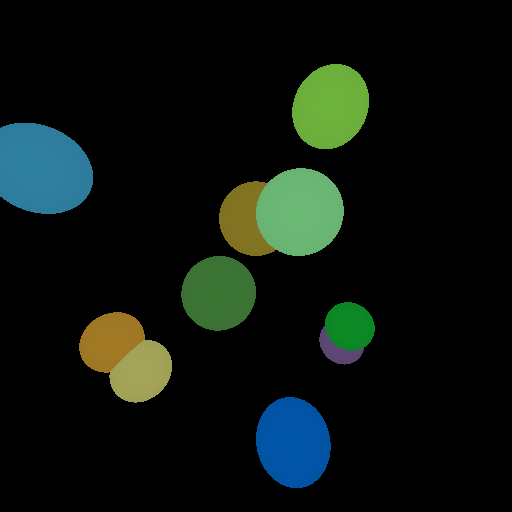
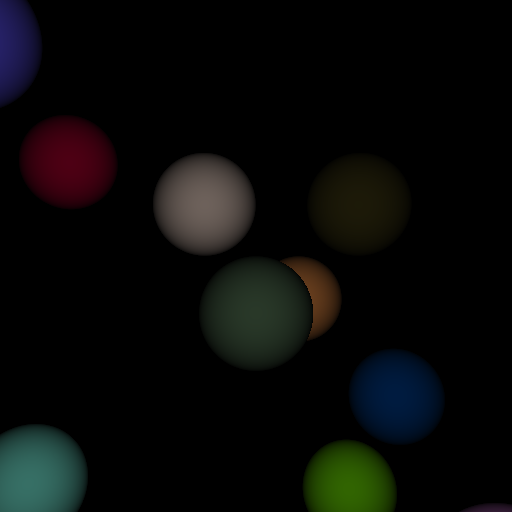
Shading progress

diff --git a/src/sphere.rs b/src/sphere.rs
@@ -2,7 +2,7 @@
 use crate::color::Color;
 use crate::vec3::Vec3;
 use crate::ray::Ray;
-use crate::object::{Object,MaterialType};
+use crate::object::{Object,MaterialType,Intersection};
 
 pub struct Sphere {
     pub position: Vec3,
@@ -12,15 +12,6 @@ pub struct Sphere {
 }
 
 impl Sphere {
-
-    pub fn new(position: Vec3, radius: f32, material_type: MaterialType, color: Color) -> Self {
-        Self {
-            position,
-            radius,
-            material_type,
-            color
-        }
-    }
 
     pub fn surface_point(&self, latitude: f32, longitude: f32) -> Vec3 {
         let lat_cos = latitude.cos();
@@ -41,13 +32,13 @@ impl Sphere {
 
 impl Object for Sphere {
 
-    fn intersection(&self, ray: &Ray) -> Option<f32> {
+    fn intersection(&self, ray: &Ray) -> Option<Intersection> {
         
         // analytic solution
-        let L: Vec3 = &ray.origin - &self.position;
+        let l: Vec3 = &ray.origin - &self.position;
         let a: f32 = &ray.direction * &ray.direction;
-        let b: f32 = 2.0 * (&ray.direction * &L);
-        let c: f32 = &L * &L - self.radius_squared();
+        let b: f32 = 2.0 * (&ray.direction * &l);
+        let c: f32 = &l * &l - self.radius_squared();
 
         return match solve_quadratic(a, b, c) {
             Some((mut t0, mut t1)) => {
@@ -64,7 +55,16 @@ impl Object for Sphere {
                     }
                 }
 
-                return Some(t0);
+                let distance = t0;
+
+                let position = &ray.origin + &(&ray.direction * distance);
+                let normal = (&position - &self.position).normalized();
+
+                return Some(Intersection {
+                    distance,
+                    position,
+                    normal
+                });
             },
             None => None
         };

diff --git a/src/main.rs b/src/main.rs
@@ -18,7 +18,7 @@ use object::{Object,MaterialType};
 
 const RESOLUTION: usize = 512;
 const CAMERA_POSITION: Vec3 = Vec3 { x: 0.0, y: 0.0, z: 0.0 };
-const FOCAL_LENGTH: f32 = 1.0;
+const FOCAL_LENGTH: f32 = 2.0;
 const CAMERA_WIDTH: f32 = 2.0;
 const CAMERA_HEIGHT: f32 = 2.0;
 const CAMERA_TOP_LEFT: Vec3 = Vec3 { 
@@ -108,10 +108,17 @@ fn cast_ray(ray: &Ray, objs: &Vec<Box<dyn Object>>, depth: u8) -> Color {
 
     for obj in objs {
         match obj.intersection(&ray) {
-            Some(distance) => {
-                if distance < nearest_distance {
-                    nearest_distance = distance;
-                    nearest_color = &obj.color() * ((255.0 - (distance * 10.0)) / 255.0);
+            Some(intersection) => {
+                if intersection.distance < nearest_distance {
+                    nearest_distance = intersection.distance;
+
+                    let normal_angle = (&CAMERA_POSITION - &intersection.position).angle_to(&intersection.normal);
+                    let normal_shade = normal_angle / (std::f32::consts::PI / 2.0);
+                    
+                    let distance_shade = (255.0 - (intersection.distance * 10.0)) / 255.0;
+                    
+                    nearest_color = &obj.color() * (distance_shade * normal_shade);
+
                     /*
                     match obj.material_type() {
                         Diffuse => &obj.color() * (255.0 - (distance * 10.0)),
@@ -126,6 +133,12 @@ fn cast_ray(ray: &Ray, objs: &Vec<Box<dyn Object>>, depth: u8) -> Color {
     }
 
     return nearest_color;
+}
+
+fn clamp(num: f32, min: f32, max: f32) -> f32 {
+    if num > max { max } 
+    else if num < min { min } 
+    else { num }
 }
 
 

diff --git a/src/object.rs b/src/object.rs
@@ -1,9 +1,16 @@
 
 use crate::color::Color;
 use crate::ray::Ray;
+use crate::vec3::Vec3;
+
+pub struct Intersection {
+    pub distance: f32,
+    pub position: Vec3,
+    pub normal: Vec3,
+}
 
 pub trait Object {
-    fn intersection(&self, ray: &Ray) -> Option<f32>;
+    fn intersection(&self, ray: &Ray) -> Option<Intersection>;
     fn material_type(&self) -> MaterialType;
     fn color(&self) -> Color;
 }
